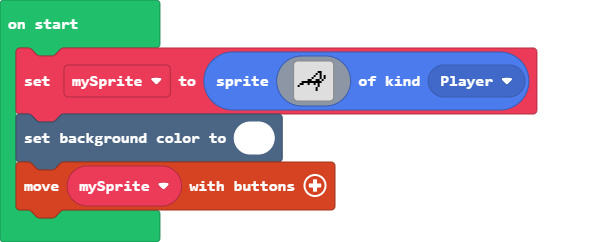
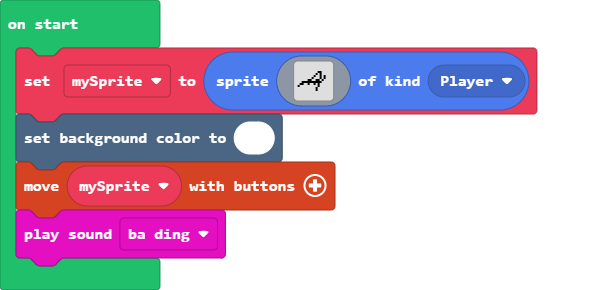
added sound

diff --git a/main.ts b/main.ts
@@ -18,3 +18,4 @@ let mySprite = sprites.create(img`
     `, SpriteKind.Player)
 scene.setBackgroundColor(1)
 controller.moveSprite(mySprite)
+music.baDing.play()
